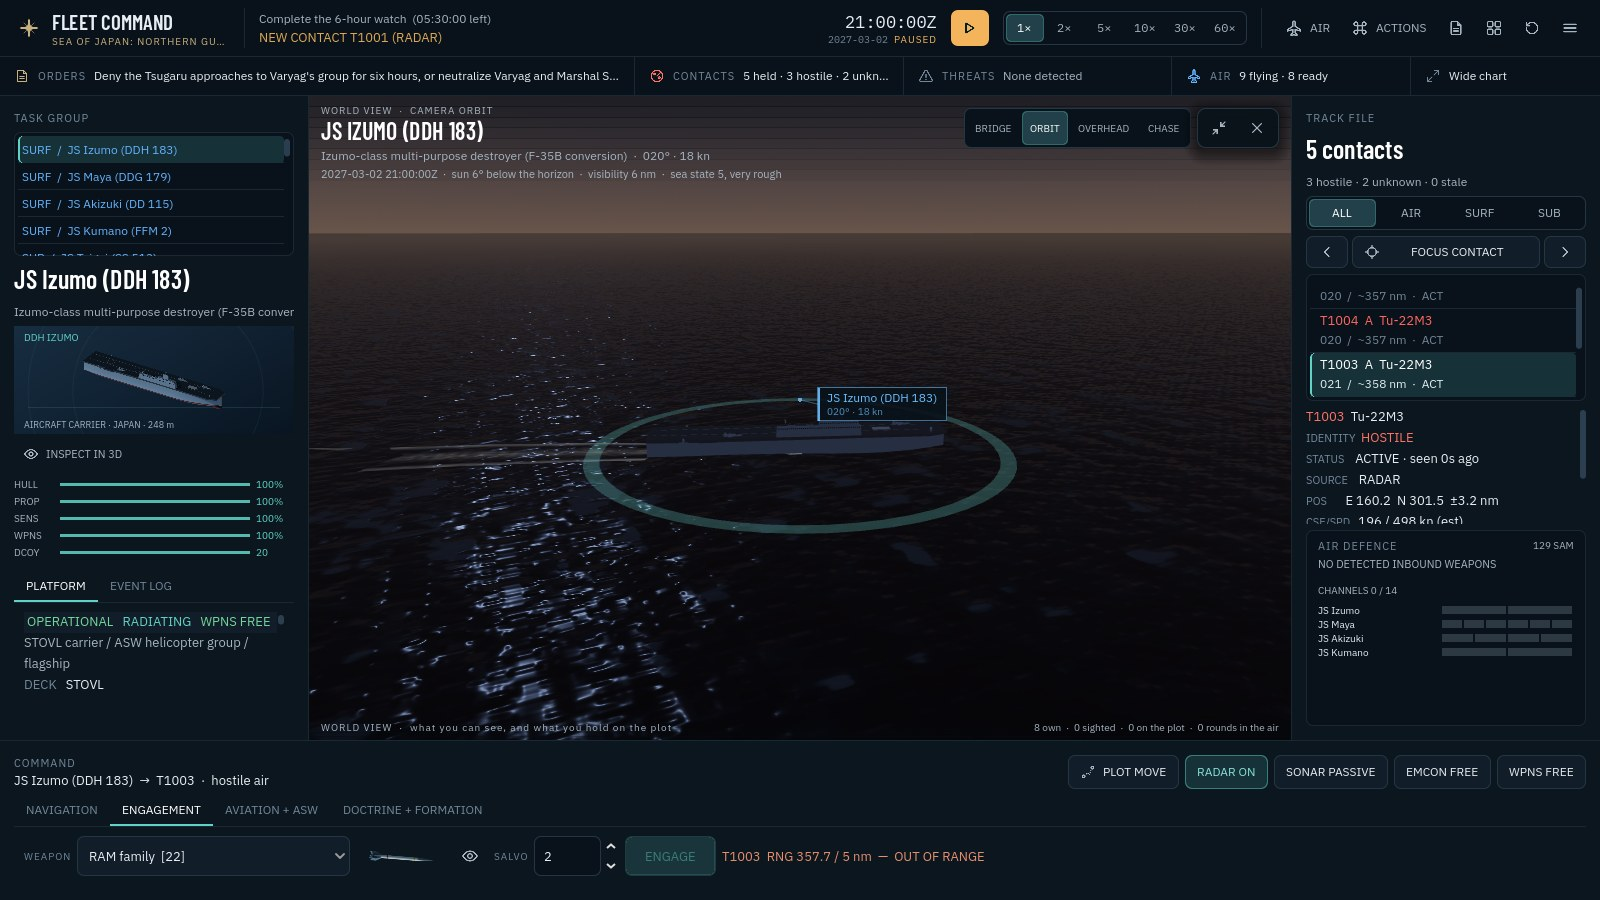
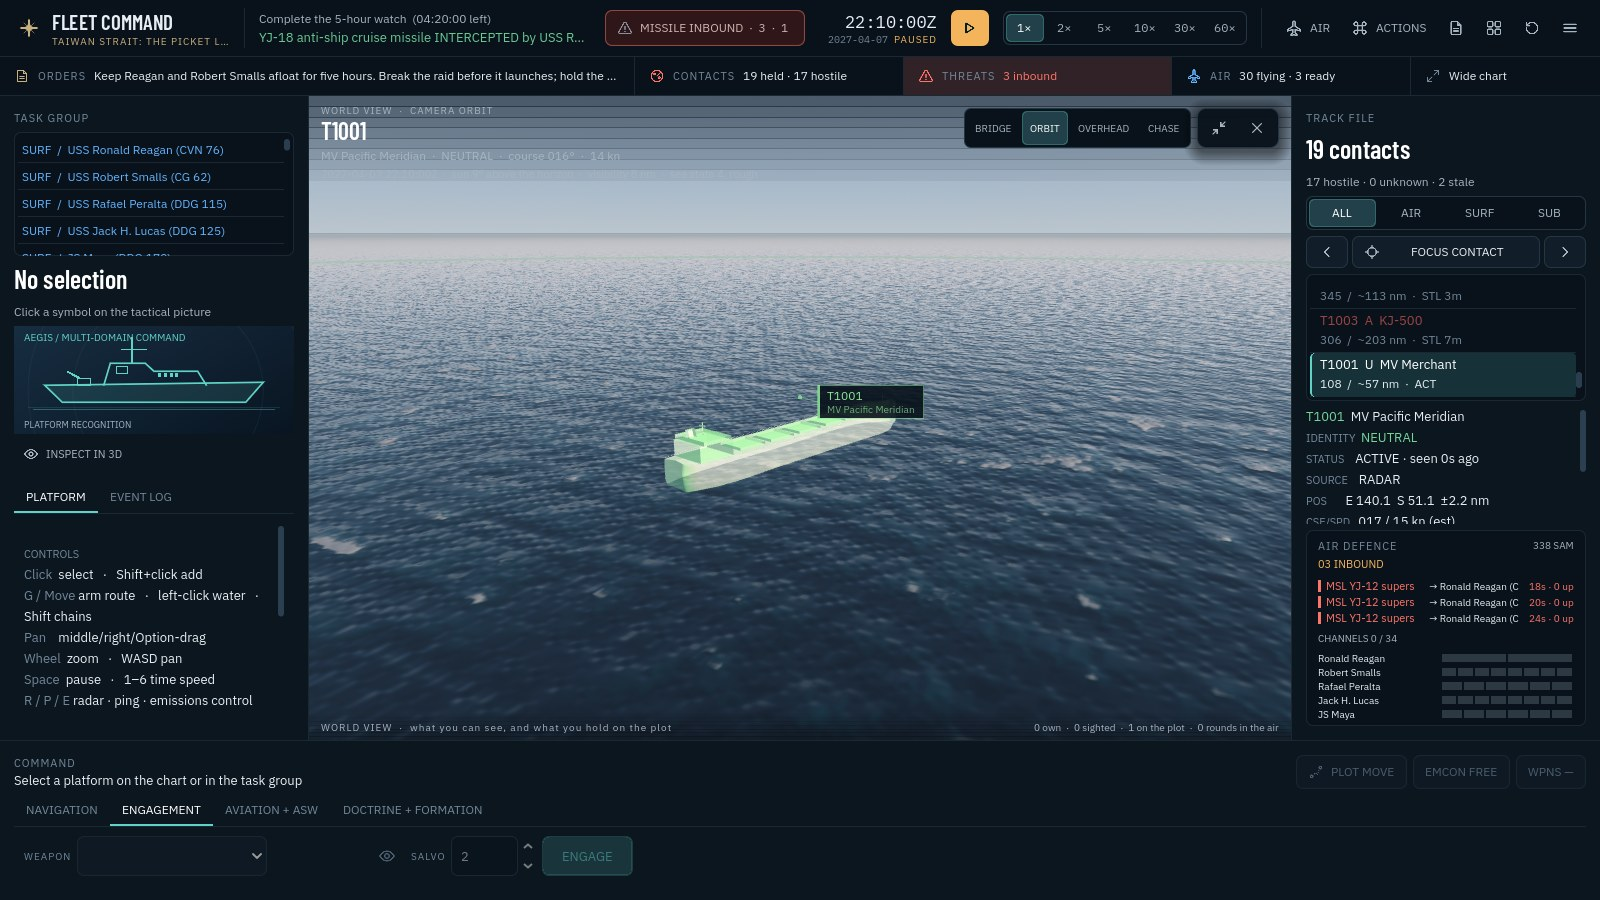
Show the world view on a plotted contact in the release notes
Claude-Session: https://claude.ai/code/session_01DYTVpDvkoLcmAmarGJmeB3

diff --git a/docs/2026-09-27-world-theatres.md b/docs/2026-09-27-world-theatres.md
@@ -77,7 +77,7 @@ Four cameras: **bridge** (from the selected ship's bridge, looking where she is 
 
 Limits worth knowing. Land is a stylised shelf with three terraces at a quarter of the charted elevation, so a coast reads as low stepped hills and a shore station sits among them; nothing is real relief. Rounds at cruise altitude are usually above the frame of a ship-orbiting camera and show as plumes. Wakes and plumes are seeded back along the heading when the view first sees a unit, and effects that happen while the view is closed are not replayed. The sea animates in real time, so at 60× the ships outrun the swell.
 
-![The Izumo group in the Sea of Japan from the world view](2026-09-27-world-view.jpg)
+![The world view on a plotted contact east of Taiwan: a neutral merchant drawn as a ghost where the plot holds her, while three YJ-12s are inbound on the carrier behind the camera](2026-09-27-world-view.jpg)
 
 ## Validation
 
